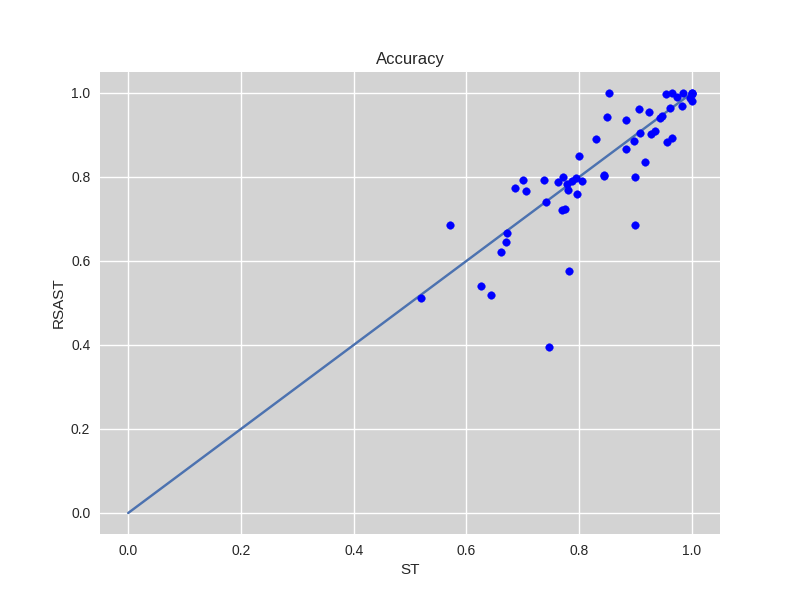
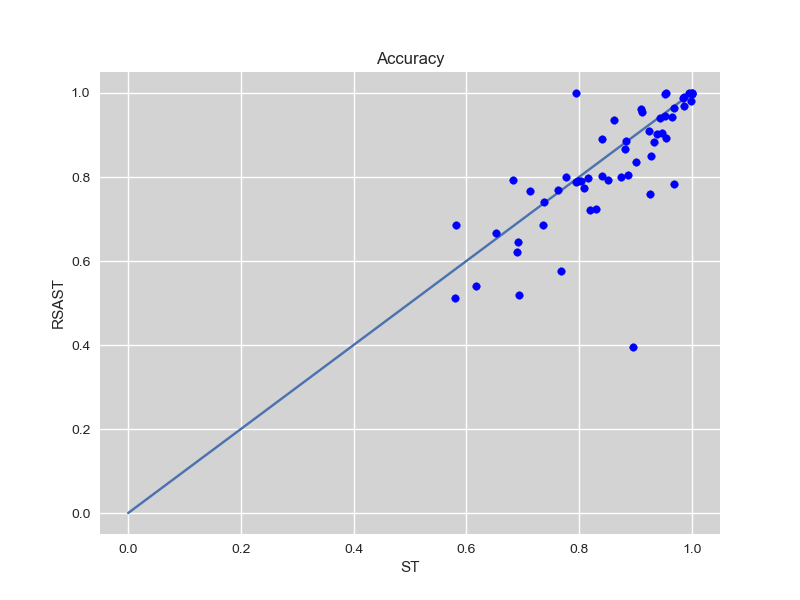
updated sources

diff --git a/sast/sast.py b/sast/sast.py
@@ -563,7 +563,7 @@ if __name__ == "__main__":
     from utils_sast import load_dataset, format_dataset
 
     import time
-    ds='ArrowHead' # Chosing a dataset from # Number of classes to consider
+    ds='DodgerLoopDay' # Chosing a dataset from # Number of classes to consider
 
     rtype="numpy2d"
     X_train, y_train = load_UCR_UEA_dataset(name=ds, extract_path='data', split="train", return_type=rtype)
